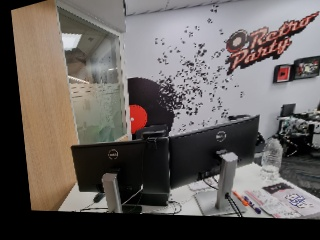
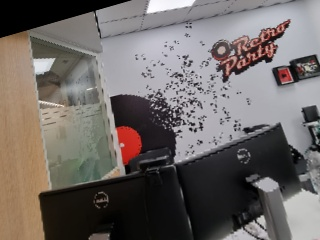
added resized-photos folder

diff --git a/final_project/datasetCreate.py b/final_project/datasetCreate.py
@@ -10,7 +10,7 @@ class dataset:
         pass
         # self.folderPath = folderPath
 
-    def ImagePreProcessing(self, path, newPath):
+    def ImagePreProcessing(self, path, resize_Path, homography_path):
         img = cv2.cvtColor(cv2.imread(path), cv2.COLOR_BGR2RGB)
         img = cv2.resize(img, (320, 240))
 
@@ -44,15 +44,18 @@ class dataset:
         #     if i == (len(tempArr) - 1):
         #         newPath += "new."
         #     newPath += tempArr[i]
-        print(newPath)
         # './temp_photos/warped_image.jpg'
-        cv2.imwrite(newPath, cv2.cvtColor(warped_image, cv2.COLOR_RGB2BGR))
+
+        cv2.imwrite(resize_Path, cv2.cvtColor(img, cv2.COLOR_RGB2BGR))
+        cv2.imwrite(homography_path, cv2.cvtColor(warped_image, cv2.COLOR_RGB2BGR))
         return warped_image
 
     def PicturesInFolder(self, folderPath):
-        new_folder_path = './homography_photos'
+        resize_Path = './photos'
+        homography_path = './homography_photos'
         for file in os.scandir(folderPath):
-            self.ImagePreProcessing(folderPath + '/' + file.name, new_folder_path + '/' + file.name)
+            self.ImagePreProcessing(folderPath + '/' + file.name, resize_Path + '/' + file.name,
+                                    homography_path + '/' + file.name)
 
 
 d = dataset()
